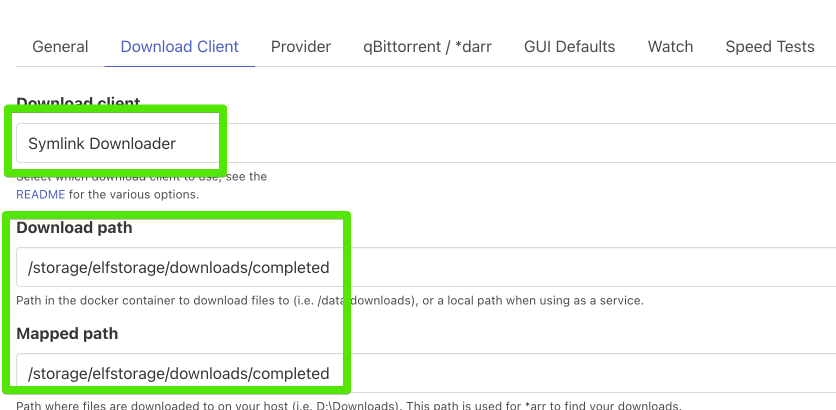
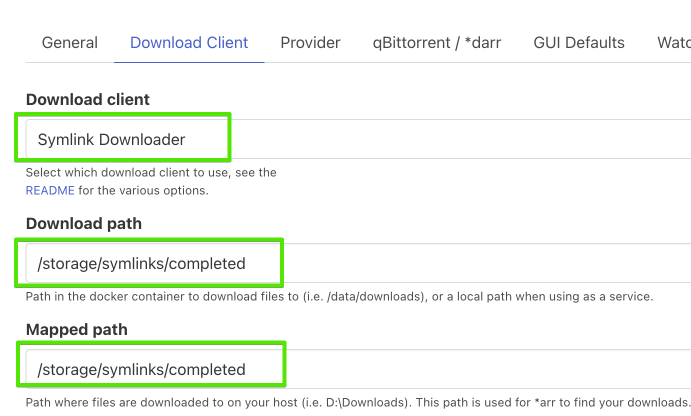
Tidy up rdtclient docs

Changed region(s): [[0.0, 0.2049, 1.0, 1.0], [0.0304, 0.0878, 1.0, 0.1756]]

diff --git a/docs/app/rdtclient.md b/docs/app/rdtclient.md
@@ -32,12 +32,12 @@ A popular configuration for RDTClient is to use the "Symlink Downloader". It wor
 flowchart TD
     G <--> |1. Add torrent|H[real-debrid]
 
-    K[Plex/Jellyfin/Emby] --> |"Read file (symlink)"|L["/storage/elfstorage"]
+    K[Plex/Jellyfin/Emby] --> |"Read file (symlink)"|L["/storage/symlinks"]
 
     K[Plex/Jellyfin/Emby] --> |"Resolve symlink (actual file)"|J["/storage/realdebrid-zurg/__all__"]
     %% G --> |Confirm download|J
 
-    G[RDTClient] --> |3. Create symlink|P["/storage/elfstorage"]
+    G[RDTClient] --> |3. Create symlink|P["/storage/symlinks"]
 
     H --> Q[Zurg+rclone]
     Q --> J
@@ -48,9 +48,9 @@ flowchart TD
 
 1. A torrent is added to RDTClient, which submits it to [Real-Debrid][real-debrid] to be downloaded
 2. Zurg is running, configured with an rclone mounts, so that `/storage/realdebrid-zurg/__all__` shows all files in the user's Real-Debrid account, **for all apps**
-3. RDTClient confirms that the download is "completed" (*expected files exist in `/storage/realdebrid-zurg/__all__`*), and creates a **symlink** from `/storage/realdebrid-zurg/__all__/<filename>` to `/storage/elfstorage/downloads/complete/[radarr/sonarr]/<filename>.`
-4. Now, Radarr / Sonarr can rename the "file" as they prefer, or move it around `/storage/elfstorage`
-5. When the streamers (Plex / Jellyfin / Emby) try to play the file, the symlink will be resolved to the **actual** file in `/storage/realdebrid-zurg`, and the media will play as if it existed locally, at `/storage/elfstorage`.
+3. RDTClient confirms that the download is "completed" (*expected files exist in `/storage/realdebrid-zurg/__all__`*), and creates a **symlink** from `/storage/realdebrid-zurg/__all__/<filename>` to `/storage/symlinks/downloads/complete/[radarr/sonarr]/<filename>.`
+4. Now, Radarr / Sonarr can rename the "file" as they prefer, or move it around `/storage/symlinks`
+5. When the streamers (Plex / Jellyfin / Emby) try to play the file, the symlink will be resolved to the **actual** file in `/storage/realdebrid-zurg`, and the media will play as if it existed locally, at `/storage/symlinks`.
 
 The Symlink Downloader can be a bit fragile to configure, and we're using a forked version of the upstream RDTClient in order to support symlinks properly. Below are details re the configuration for the Symlink Downloader:
 
@@ -66,9 +66,9 @@ The Symlink Downloader can be a bit fragile to configure, and we're using a fork
 ### Download Client
 
 * Download client: `Symlink Downloader`
-* Download path: `/storage/elfstorage/downloads/completed`
-* Mapped path: `/storage/elfstorage/downloads/completed` (*yes, they're the same*)
-* Rclone mount path: `/storage/realdebrid-zurg/__all__`
+* Download path: `/storage/symlinks/downloads`
+* Mapped path: `/storage/symlinks/downloads` (*yes, they're the same*)
+* Rclone mount path: `/storage/realdebrid-zurg/__all__` (*or an alternate path, if you're using another debrid provider*)
 
 ![](/images/rdt-client-symlink-downloader-download-client-1.png)
 
@@ -77,13 +77,13 @@ The Symlink Downloader can be a bit fragile to configure, and we're using a fork
 ### Provider
 
 * Provider: `RealDebrid`
-* APK Key: `<your RD API key>
+* APK Key: `<your RD API key>`
 * Minimum file size to download: `5` (*avoid downloading small samples and misc files*)
 
 ### qBittorrent / *darr
 
 * Post Torrent Download Action: `Download all files to host` (*well, except we're faking it with symlinks, but we'll call it that*)
-* Only download available files on debrid provider: **checked** :white_checkmark:
+* Only download available files on debrid provider: **checked** :white_check_mark:
 * Minimum file size to download: `5` (*avoid downloading small samples and misc files*)
 
 ## Default credentials

diff --git a/docs/index.md b/docs/index.md
@@ -50,7 +50,7 @@ Recently (2024), a selection of our apps used to integrate media streaming (Plex
 
 > "I would recommend ElfHosted to anyone. It has been great so far and made life a lot easier than running my own setups. If you’re in the fence give them a try and help support this great community." - [Zestyclose_Teacher20](https://old.reddit.com/r/StremioAddons/comments/1b5wqdx/elfhosteds_elfdisclosure_report_for_feb_2024/ktayicr/)
 
-> "thanks for the help and must say this is the best host I every had for my server 🙂 10/10 🙂 All other places I have try have I got a lot buff etc. Your host can even give me full power on a 4K Remux on 200GB big movie file . That's damn awesome 😄" - @tjelite.
+> "thanks for the help and must say this is the best host I every had for my server 🙂 10/10 🙂 All other places I have try have I got a lot buff etc. Your host can even give me full power on a 4K Remux on 200GB big movie file . That's damn awesome 😄" - \@tjelite (*Discord*)
 
 
 ## The back-story
